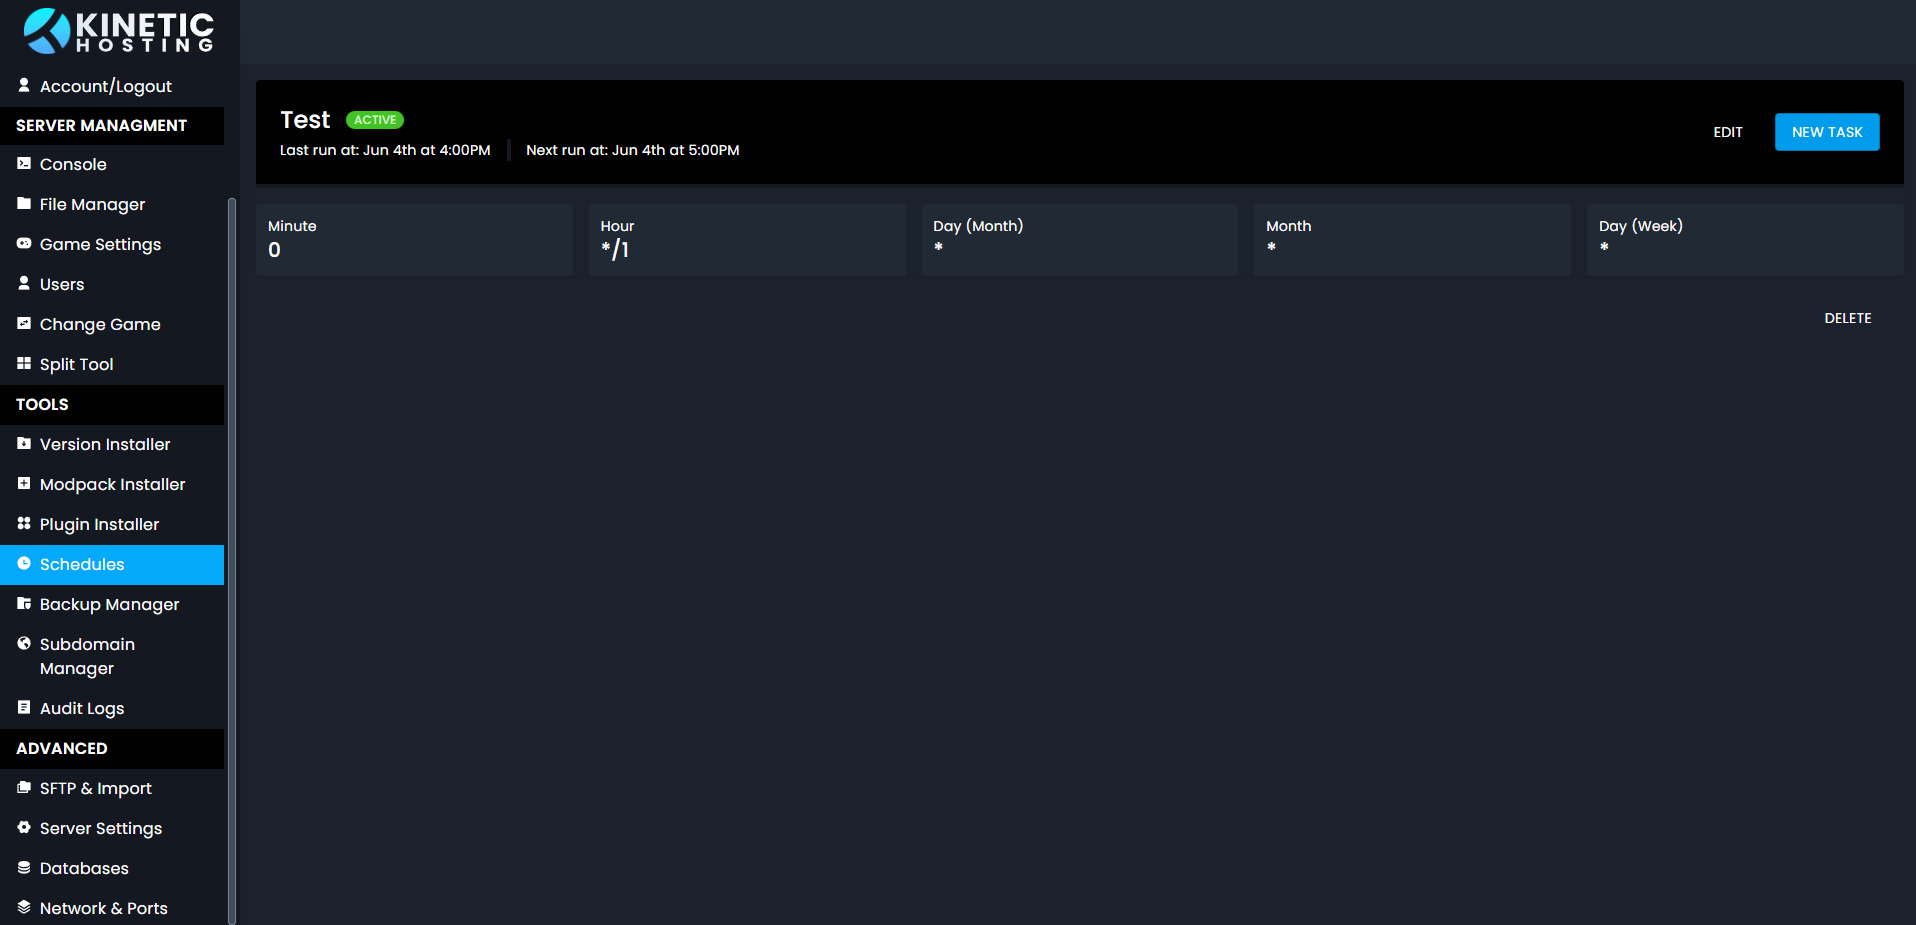
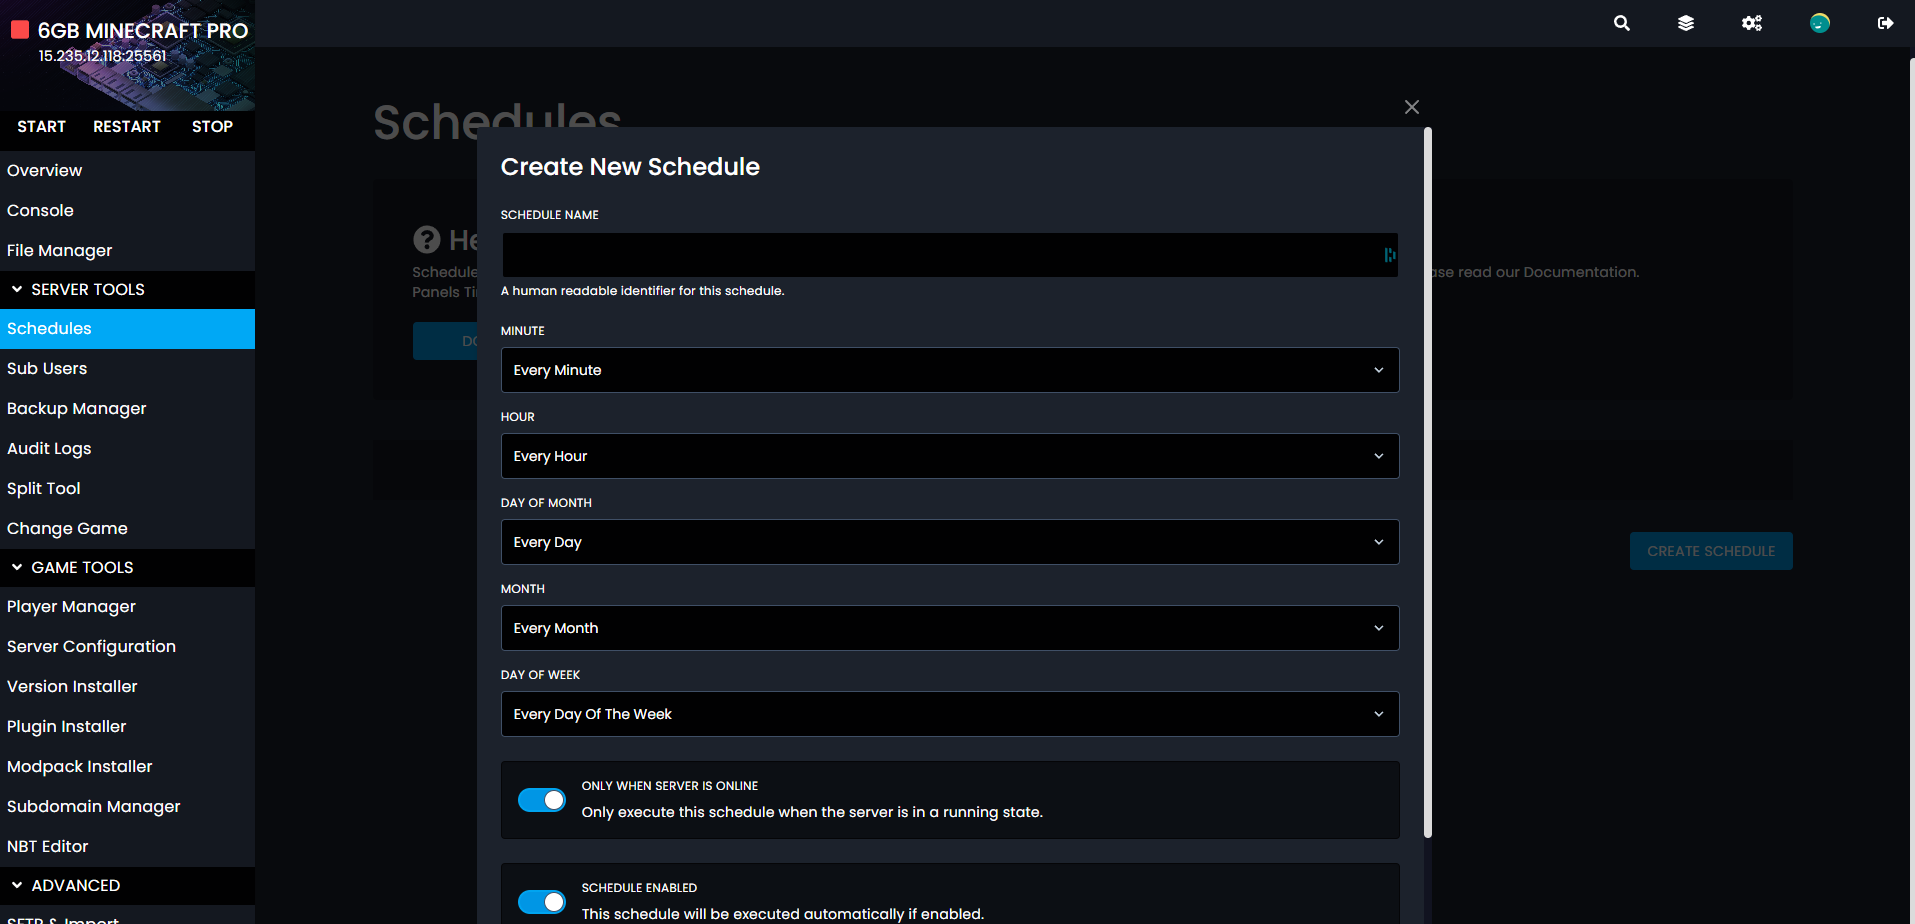
Added 3.0 update page

diff --git a/pages/updates/three.md b/pages/updates/three.md
@@ -1,0 +1,59 @@
+# Kinetic Panel 3.0 is Here.
+
+![image](../../public/panel-overview.png)
+
+Here is a quick run down of some of the new features and changes in the new Kinetic Panel 3.0.
+
+## A New UI
+
+The new Kinetic Panel has had a full UI overhaul to no only make the UI easier to read, understand and navigate. But to also allow you to use the panel on any device no matter the screen size. A huge focus of 3.0 was to make sure it look and work well on mobile phones.
+
+The new UI also includes our new overview screen. The overview screen allows you to quickly see all parts of your server, hop to the most used settings, and change key setting based on the game your server is running.
+
+## Easier Schedules
+
+![image](../../public/schedules.png)
+
+3.0 now has a new create schedule section. Allow you to set the time of your schedules with easy to understand drop downs, rather then the cron syntax we used before.
+
+## Audit More
+
+![image](../../public/audit-logs.png)
+
+Our audit logs have had an upgrade. Before not everything was logged. You didn't know what commands your users ran, if a modpack was installed, or anything that happened when using SFTP. With the 3.0, the audit logs now track more.
+
+## Player Manager (Minecraft)
+
+![image](../../public/player-manager.png)
+
+For Minecraft Java users, our panel now sports a player manager. Here you can see all the players online on your server, turn on and add people to the whitelist, op and drop players, and ban users.
+
+All of this making it simple and easy to see who is banned, whitelisted.
+
+## Server Configuration (Minecraft)
+
+![image](../../public/server-config.png)
+
+Our games setting page has now been replaced. For all games apart from Minecraft Java the settings can now be found on the overview page. For Minecraft Java we've added the Server Configuration page. The Minecraft Server Configuration page allows for you to edit even more setting than before. We've also updated it, so it will no longer override setting set directly in the config files.
+
+## Version Installer (Minecraft)
+
+![image](../../public/version-installer.png)
+
+Not a new feature, but its had a big update. Our version installer now supports more versions, and updates a lot faster than before. The version installer has a had a number of quality of life updates, such as automatically restating the server after a new version has been installed.
+
+## Plugin Installer (Minecraft)
+
+![image](../../public/plugin-installer.png)
+
+The plugin installer is way more advanced than it was before. Allowing you to manage installed plugins and upload your own plugins along side installing them from Spigot.
+
+## And More
+
+These are just some of the things that's we've added or improved on, but if we listed them all, this page would be huge. The main goal of 3.0 is to make it even more simple to use your server, while still keeping all the advanced offerings there. Along side a lot of quality of like changes, like our new UI, Overview page, and simple toggle for things like the Aikar flags.
+
+## This Isn't The End
+
+Update 3.0 has laid to ground work for more upcoming changes and feature. Big improvements for other games that are not Minecraft, along side more feature to make Minecraft servers easier to manage.
+
+Like always we welcome all feedback on Panel 3.0.
